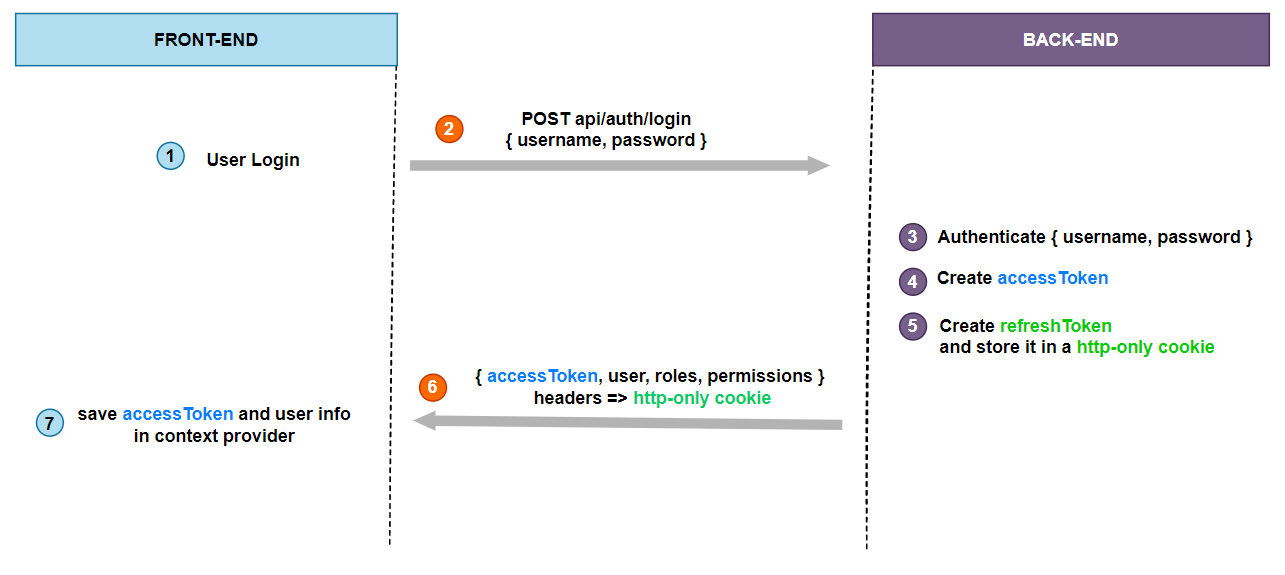
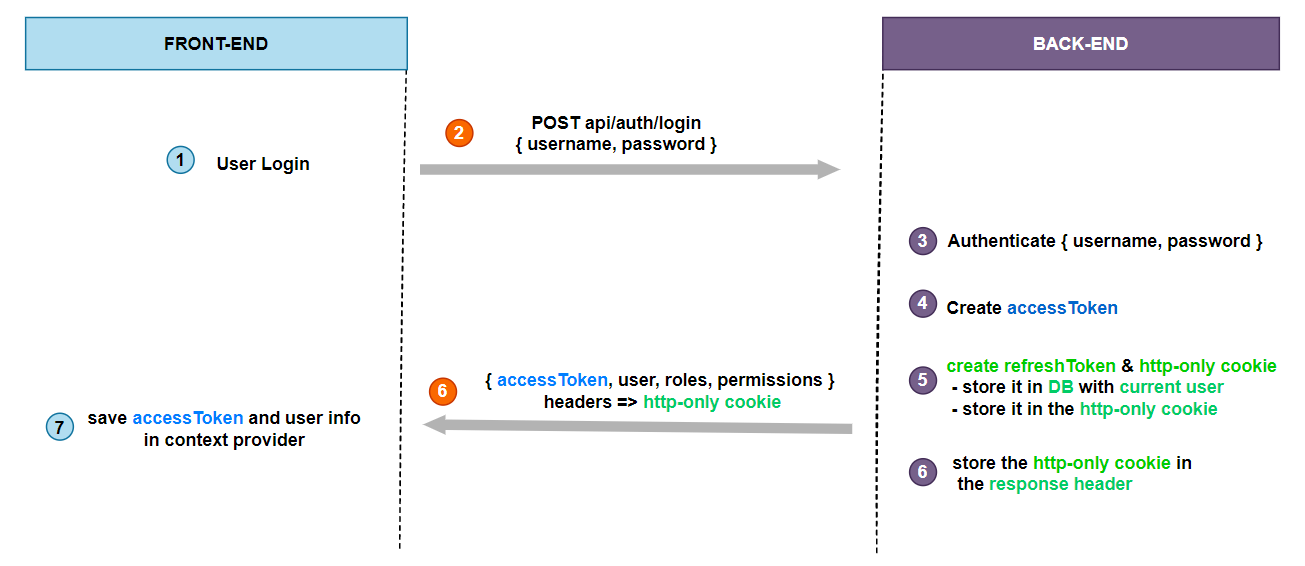
save

diff --git a/README.md b/README.md
@@ -1,9 +1,10 @@
 # Authentication System
 
 ## 1) Login
+* used JWT to create tokens.
 ![Screenshot](images/login_flowchart.png)
 
-– A refreshToken will be provided at the time user signs in.
+## 2) Access Protected Resources
 – A legal JWT must be added to HTTP Header if Client accesses protected resources.
 – With the help of Axios Interceptors, React App can check if the accessToken (JWT) is expired (401), sends /refreshToken request to receive new accessToken and use it for new resource request.
 
